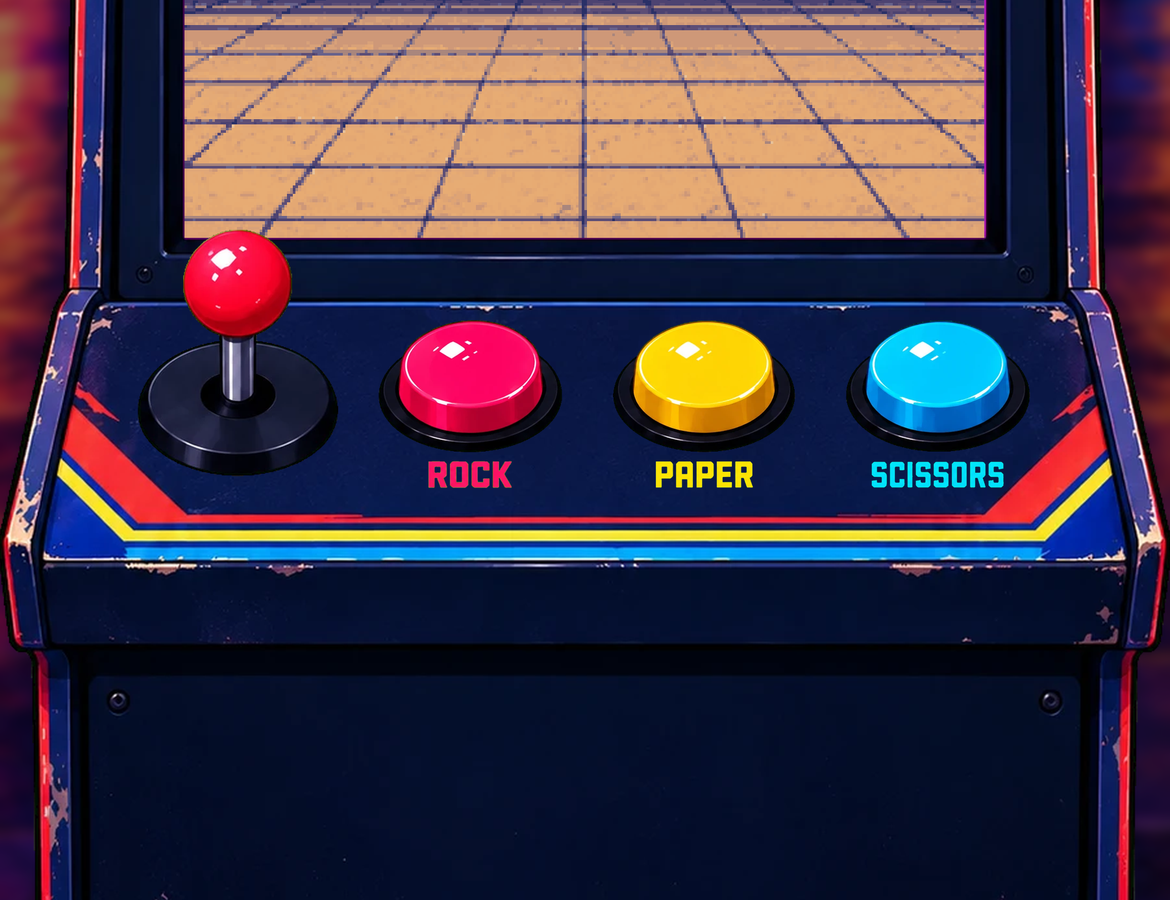
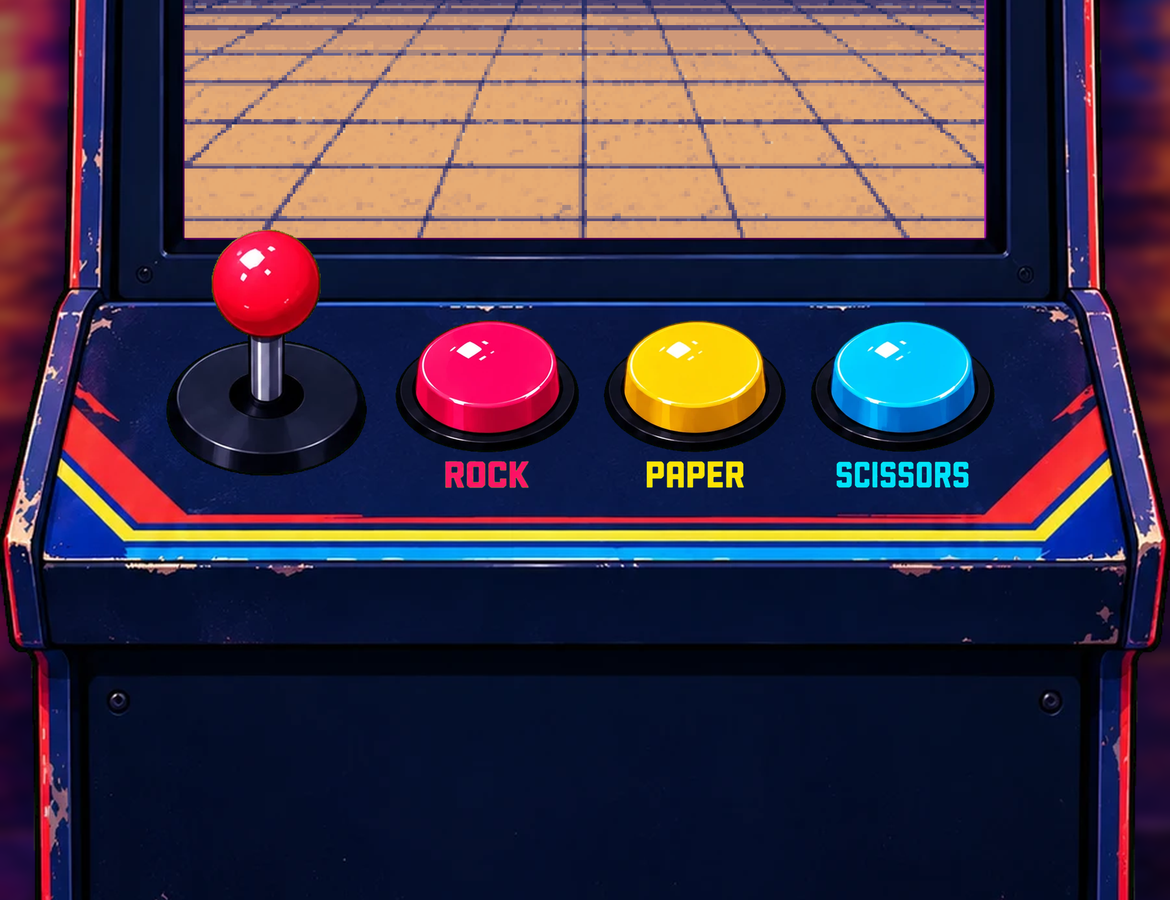
Phone preview: stick and buttons closer together, centred on the panel
Claude-Session: https://claude.ai/code/session_019JqX25W8kRMoSnwbw5sb37

Changed region(s): [[0.0923, 0.2489, 0.8923, 0.56]]

diff --git a/sources/v2-preview/compose.py b/sources/v2-preview/compose.py
@@ -33,14 +33,14 @@ btn=[bt.crop((c-180,120,c+180,390)) for c in (293,767,1245)]
 lab=[bt.crop((c-210,810,c+210,910)) for c in (291,768,1247)]
 BW=148
 bwid=BW*S
-for i,cx in enumerate((382,562,742)):
+for i,cx in enumerate((395,555,715)):
     b=btn[i]; b=b.resize((bwid,round(b.height*bwid/b.width)),Image.LANCZOS)
     cab.alpha_composite(b,(cx*S-bwid//2,1258*S-b.height))
     l=lab[i]; lw=round(l.width*bwid/360*0.62); l=l.resize((lw,round(l.height*lw/l.width)),Image.LANCZOS)
     cab.alpha_composite(l,(cx*S-lw//2,1258*S))
 jy=key(Image.open(I+'5.webp')).crop((418+30,418+40,836-30,836-30))
 jw=round(150/0.65)*S; jy=jy.resize((jw,round(jy.height*jw/jy.width)),Image.LANCZOS)
-cab.alpha_composite(jy,(203*S-jw//2,1306*S-jy.height))
+cab.alpha_composite(jy,(225*S-jw//2,1306*S-jy.height))
 cab.save('scratchpad/cabinet-full.png')
 room=Image.open(I+'6.webp').convert('RGB')
 def phone(Wc,Hc,name):
